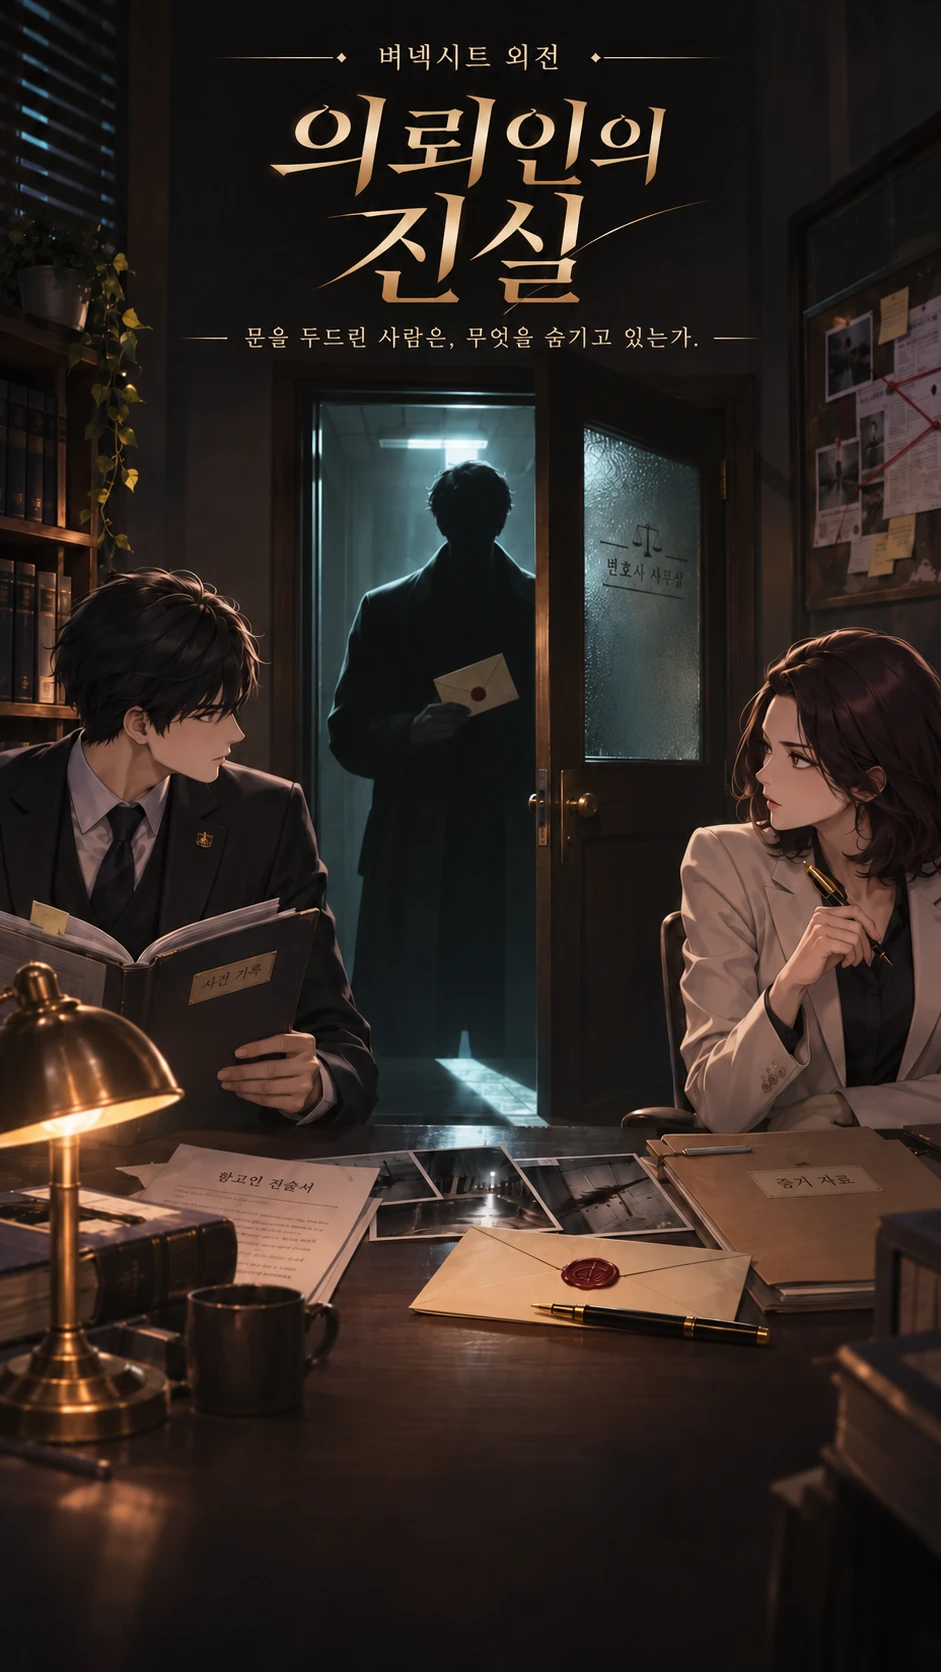
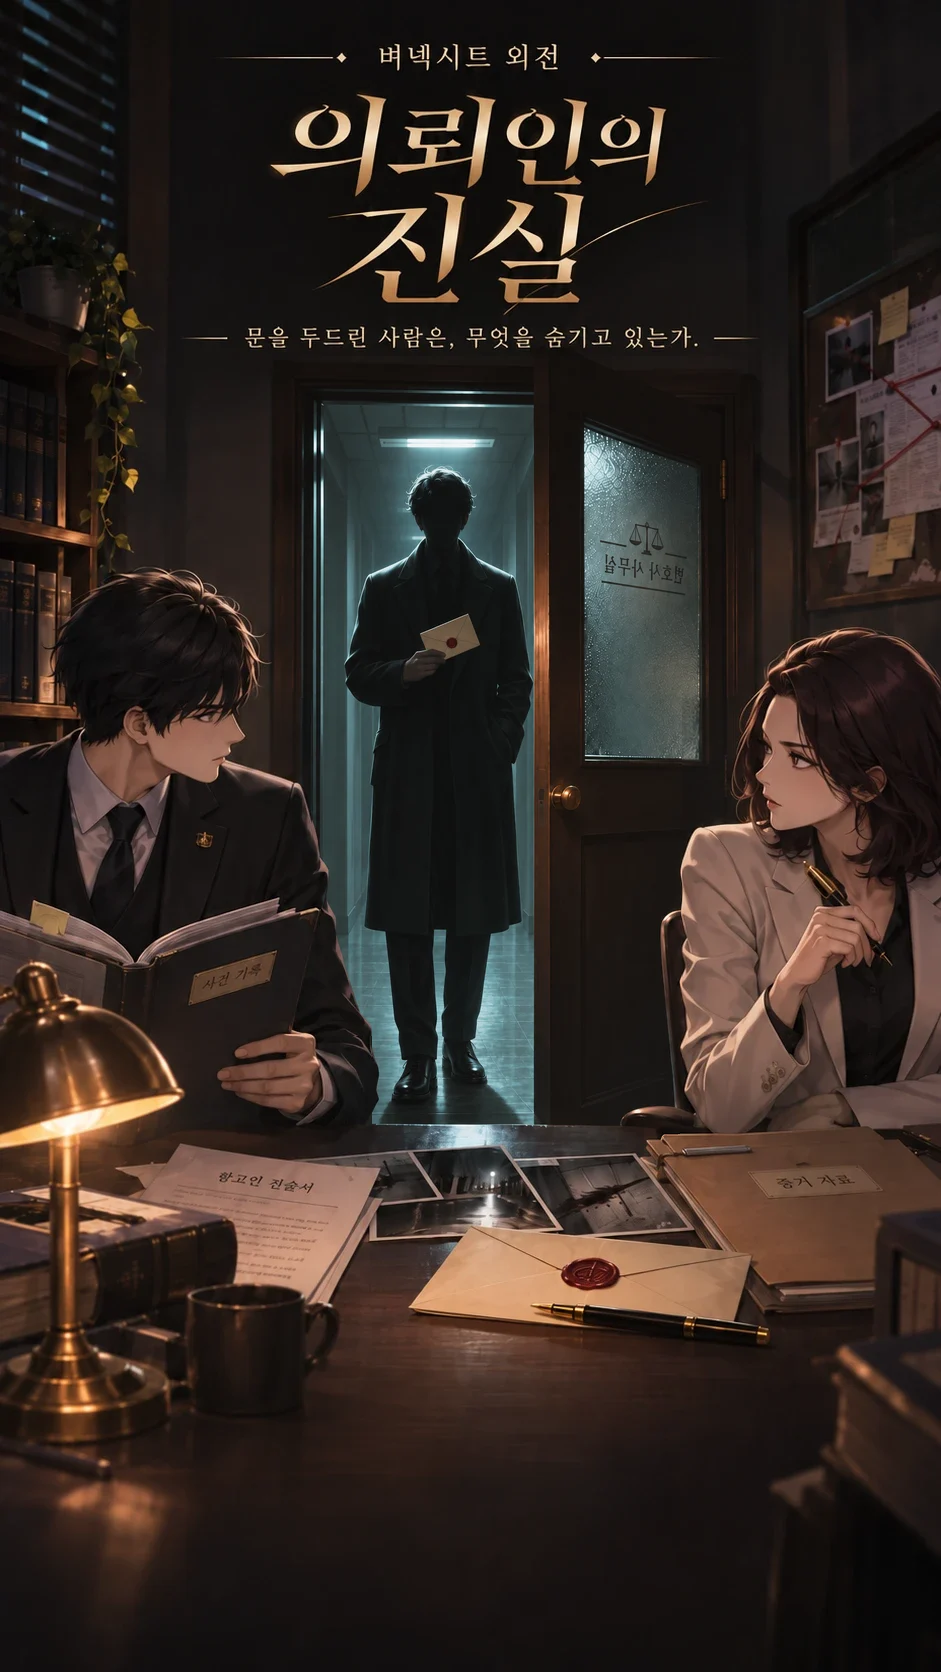
타이틀 그림: 문 앞 남자를 다리까지 보통 성인 비율로 다시 그리고 문 가까이 세움, 문짝 하나·손잡이 하나, 유리 글씨 좌우 반전

Changed region(s): [[0.3082, 0.2177, 0.6164, 0.6842], [0.6164, 0.2488, 0.7088, 0.4665]]

diff --git a/sw.js b/sw.js
@@ -2,7 +2,7 @@
 // 앱(화면 파일)은 배포할 때마다 새 판으로 바꾸고, 그림(assets/)은 버전과 상관없는 따로 된 저장소에 둔다.
 // 그래서 배포해도 이미 받은 그림은 다시 받지 않는다. 그림은 저장해 둔 것을 바로 보여 주고, 뒤에서 바뀌었는지만 확인한다.
 // 같은 이름의 그림을 다시 그려 바꿨을 때도 다음 실행부터 새 그림이 보인다(뒤에서 확인한 결과).
-const CACHE = "truth-v1796890000000";
+const CACHE = "truth-v1796900000000";
 const IMG = "truth-img-3";
 // 음악(bgm/)도 그림처럼 버전과 상관없는 저장소에 둔다. 처음 들을 때는 인터넷으로 바로 틀고, 뒤에서 곡 전체를 받아 저장한다.
 // 저장된 뒤에는 저장한 곡에서 필요한 부분(Range)을 잘라 준다. 그래서 데이터가 끊겨도 음악이 멈추지 않는다
